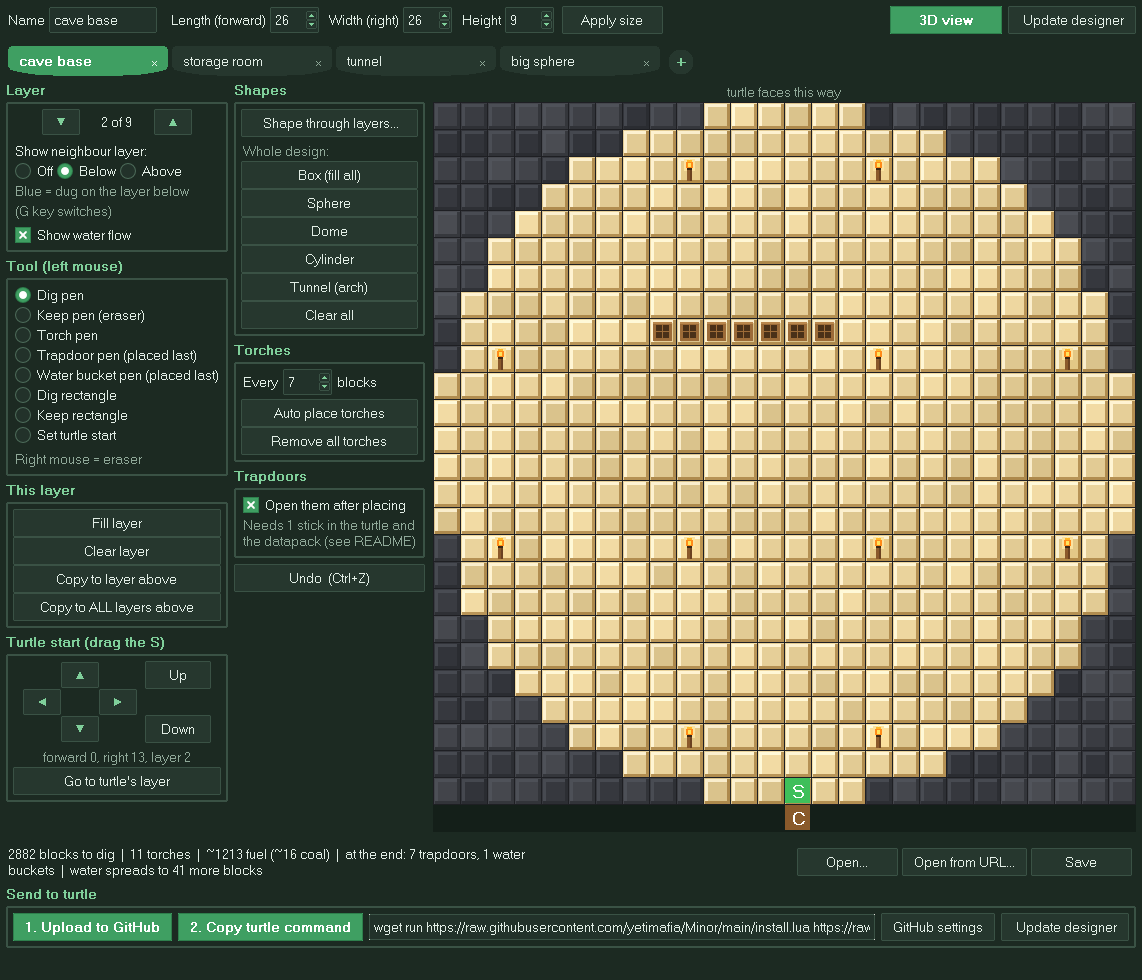
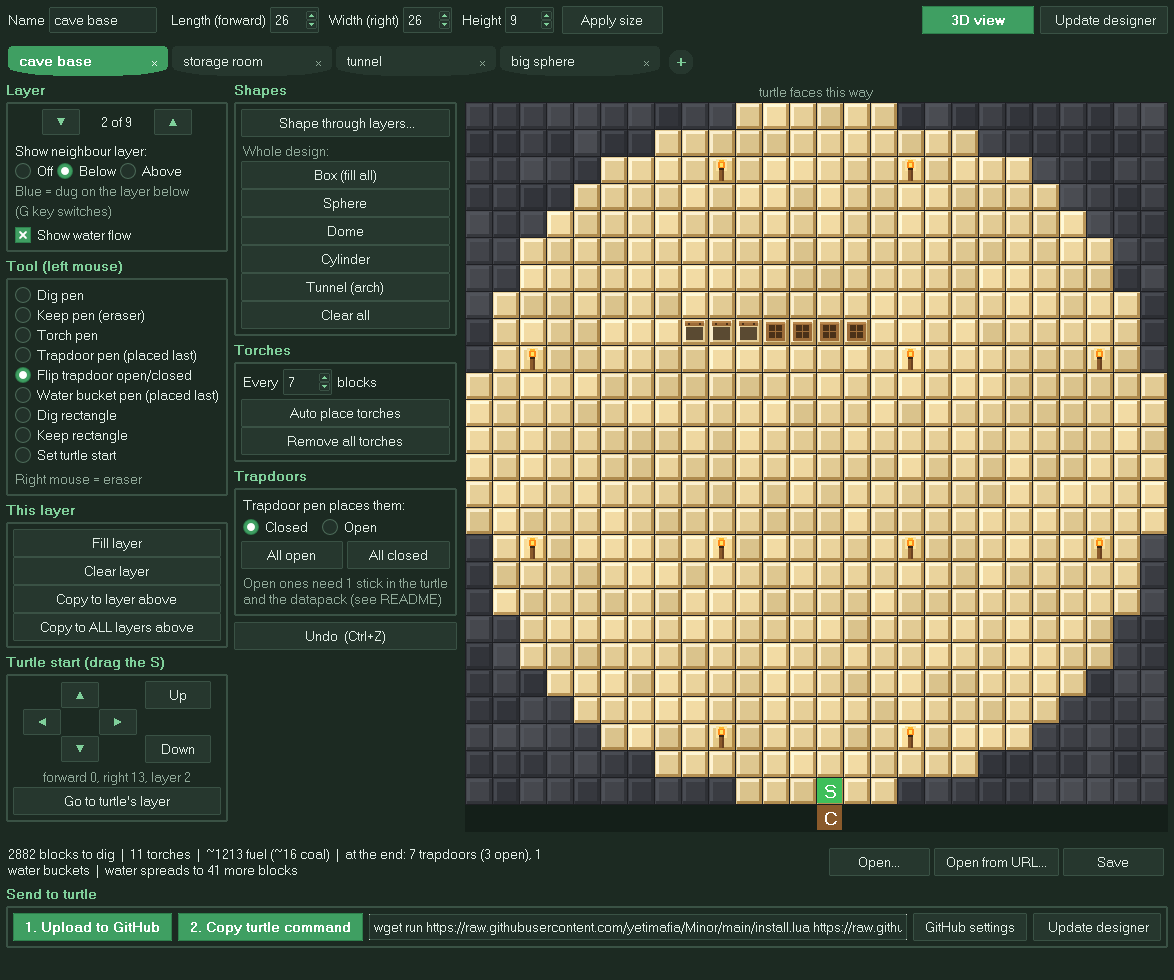
Mark each trapdoor open or closed: pen mode, flip tool, all open/closed
Turtle only opens trapdoors marked open (new 'O' cell); older files with
'trapdoors open' still open every trapdoor. 3D view shows open ones upright.

Claude-Session: https://claude.ai/code/session_01DRTnBE8omMqj1oexhSytKu

diff --git a/designer.py b/designer.py
@@ -36,7 +36,8 @@ from collections import deque
 from tkinter import filedialog, messagebox, ttk
 
 MAX = 64
-KEEP, DIG, TORCH, WATER, TRAP = 0, 1, 2, 3, 4  # WATER/TRAP: dug, then placed at the end
+KEEP, DIG, TORCH, WATER, TRAP, TRAP_OPEN = 0, 1, 2, 3, 4, 5  # water/trapdoors: dug, then placed at the end
+TRAPS = (TRAP, TRAP_OPEN)
 HERE = os.path.dirname(os.path.abspath(__file__))
 DESIGN_DIR = os.path.join(HERE, "designs")
 SETTINGS_FILE = os.path.join(HERE, "minor_settings.json")
@@ -269,6 +270,7 @@ STYLE = {
     DIG:     ("#e6cf98", "#fff3d2", "#b38f52"),   # dug - warm sandy tile
     WATER:   ("#3f7fd6", "#7fb0f0", "#2a5aa0"),   # water bucket goes here
     TRAP:    ("#e6cf98", "#fff3d2", "#b38f52"),   # trapdoor goes here (icon drawn on top)
+    TRAP_OPEN: ("#e6cf98", "#fff3d2", "#b38f52"),  # trapdoor, then opened
     TORCH:   ("#efd492", "#fff6d8", "#b8904c"),
     KEEP:    ("#3e4046", "#4b4e55", "#303237"),   # left alone - dark stone
     "below": ("#3c5779", "#4d6a90", "#2e4460"),   # dug on the layer below (blue)
@@ -301,7 +303,6 @@ class Design:
         self.L, self.W, self.H = length, width, height
         self.grid = [[[KEEP] * width for _ in range(length)] for _ in range(height)]
         self.start = (0, 0, 0)  # x (forward), y (up), z (right)
-        self.open_traps = True  # turtle clicks trapdoors open after placing them
 
     def resize(self, length, width, height):
         old = self.grid
@@ -333,7 +334,7 @@ class Design:
                 return False
             if (x, y, z) == (sx, sy, sz) or (x, y, z) == (sx - 1, sy, sz):
                 return False  # turtle parks here / chest
-            return grid[y][x][z] not in (KEEP, TRAP)
+            return grid[y][x][z] not in (KEEP, TRAP, TRAP_OPEN)
 
         def hole_below(x, y, z):
             return open_(x, y - 1, z)
@@ -405,9 +406,12 @@ class Design:
                 for v in row:
                     if v == WATER:
                         water += 1
-                    elif v == TRAP:
+                    elif v in TRAPS:
                         traps += 1
         return water, traps
+
+    def count_open_traps(self):
+        return sum(1 for layer in self.grid for row in layer for v in row if v == TRAP_OPEN)
 
     def count(self):
         dig = torches = 0
@@ -443,9 +447,7 @@ class Design:
         out = ["minor-design 1",
                f"size {self.L} {self.W} {self.H}",
                "start {} {} {}".format(*self.start)]
-        if self.open_traps:
-            out.append("trapdoors open")
-        chars = {KEEP: ".", DIG: "#", TORCH: "T", WATER: "W", TRAP: "D"}
+        chars = {KEEP: ".", DIG: "#", TORCH: "T", WATER: "W", TRAP: "D", TRAP_OPEN: "O"}
         for y in range(self.H):
             out.append(f"layer {y}")
             for x in range(self.L):
@@ -464,8 +466,9 @@ class Design:
     def from_text(cls, text):
         import re
         d = None
+        all_open = False
         y, x = -1, 0
-        values = {".": KEEP, "#": DIG, "T": TORCH, "W": WATER, "D": TRAP}
+        values = {".": KEEP, "#": DIG, "T": TORCH, "W": WATER, "D": TRAP, "O": TRAP_OPEN}
         for line in text.splitlines():
             line = line.strip()
             if line.startswith("size "):
@@ -474,14 +477,13 @@ class Design:
             elif line.startswith("start ") and d:
                 sx, sy, sz = map(int, line.split()[1:4])
                 d.start = (sx, sy, sz)
-                d.open_traps = False  # only on if the file says so
             elif line.startswith("trapdoors open") and d:
-                d.open_traps = True
+                all_open = True  # older files: one setting for every trapdoor
             elif line.startswith("layer ") and d:
                 y, x = int(line.split()[1]), 0
             elif d and y >= 0 and x < d.L and line:
                 z = 0
-                for count, ch in re.findall(r"(\d+)([.#TWD])", line):
+                for count, ch in re.findall(r"(\d+)([.#TWDO])", line):
                     for _ in range(int(count)):
                         if z < d.W:
                             d.grid[y][x][z] = values[ch]
@@ -489,6 +491,12 @@ class Design:
                 x += 1
         if d is None:
             raise ValueError("Not a minor design file")
+        if all_open:
+            for layer in d.grid:
+                for row in layer:
+                    for z, v in enumerate(row):
+                        if v == TRAP:
+                            row[z] = TRAP_OPEN
         return d
 
 
@@ -591,7 +599,7 @@ class App:
         tools = ttk.LabelFrame(side_a, text="Tool (left mouse)", padding=6)
         tools.pack(fill="x", pady=(0, 6))
         for value, text in (("dig", "Dig pen"), ("keep", "Keep pen (eraser)"),
-                            ("torch", "Torch pen"), ("trap", "Trapdoor pen (placed last)"),
+                            ("torch", "Torch pen"), ("trap", "Trapdoor pen (placed last)"), ("flip", "Flip trapdoor open/closed"),
                             ("water", "Water bucket pen (placed last)"), ("rect", "Dig rectangle"),
                             ("rectkeep", "Keep rectangle"), ("start", "Set turtle start")):
             ttk.Radiobutton(tools, text=text, value=value, variable=self.tool).pack(anchor="w")
@@ -625,11 +633,22 @@ class App:
 
         trp = ttk.LabelFrame(side_b, text="Trapdoors", padding=6)
         trp.pack(fill="x", pady=(0, 6))
-        self.open_traps = tk.BooleanVar(value=True)
-        ttk.Checkbutton(trp, text="Open them after placing", variable=self.open_traps,
-                        command=self.set_open_traps).pack(anchor="w")
-        ttk.Label(trp, text="Needs 1 stick in the turtle and\nthe datapack (see README)",
-                  foreground=THEME["muted"], justify="left").pack(anchor="w")
+        ttk.Label(trp, text="Trapdoor pen places them:").pack(anchor="w")
+        self.trap_mode = tk.StringVar(value="closed")
+        mr = ttk.Frame(trp)
+        mr.pack(anchor="w", pady=(2, 4))
+        ttk.Radiobutton(mr, text="Closed", value="closed", variable=self.trap_mode,
+                        command=self.pick_trap_pen).pack(side="left")
+        ttk.Radiobutton(mr, text="Open", value="open", variable=self.trap_mode,
+                        command=self.pick_trap_pen).pack(side="left", padx=(10, 0))
+        br = ttk.Frame(trp)
+        br.pack(fill="x")
+        ttk.Button(br, text="All open", command=lambda: self.set_all_traps(TRAP_OPEN)).pack(
+            side="left", fill="x", expand=True)
+        ttk.Button(br, text="All closed", command=lambda: self.set_all_traps(TRAP)).pack(
+            side="left", fill="x", expand=True, padx=(4, 0))
+        ttk.Label(trp, text="Open ones need 1 stick in the turtle\nand the datapack (see README)",
+                  foreground=THEME["muted"], justify="left").pack(anchor="w", pady=(4, 0))
 
         ttk.Button(side_b, text="Undo  (Ctrl+Z)", command=self.undo).pack(fill="x", pady=(0, 6))
 
@@ -750,6 +769,8 @@ class App:
             self.torch_items[(x, z)] = self.draw_water(x, z)
         elif v == TRAP:
             self.torch_items[(x, z)] = self.draw_trapdoor(x, z)
+        elif v == TRAP_OPEN:
+            self.torch_items[(x, z)] = self.draw_trapdoor_open(x, z)
 
     def draw_water(self, x, z):
         """Water: little light-blue waves on a blue tile."""
@@ -764,6 +785,24 @@ class App:
             items.append(self.canvas.create_line(*pts, fill="#cfe4ff", width=max(1, c // 12),
                                                  smooth=True, tags="torch"))
         return items
+
+    def draw_trapdoor_open(self, x, z):
+        """Open trapdoor: the hatch swung up, seen edge-on along the top of the
+        square, with the hole showing underneath."""
+        c = self.cell
+        px, py = z * c, (self.d.L - 1 - x) * c
+        u = c / 8.0
+
+        def box(x0, y0, x1, y1, color):
+            return self.canvas.create_rectangle(px + x0 * u, py + y0 * u, px + x1 * u, py + y1 * u,
+                                                fill=color, outline="", tags="torch")
+        return [
+            box(1.6, 2.6, 6.4, 6.6, "#5a4a32"),   # the open hole
+            box(1.2, 1.0, 6.8, 2.4, "#9c6b38"),   # hatch standing up
+            box(1.2, 1.0, 6.8, 1.4, "#b9864c"),   # its top edge
+            box(2.0, 1.5, 2.8, 2.0, "#4a3018"),   # little windows seen edge-on
+            box(5.2, 1.5, 6.0, 2.0, "#4a3018"),
+        ]
 
     def draw_trapdoor(self, x, z):
         """Trapdoor: a wooden hatch with a frame and four little windows."""
@@ -845,7 +884,9 @@ class App:
         water, traps = self.d.count_items()
         text = f"{dig} blocks to dig  |  {torches} torches  |  ~{fuel} fuel (~{fuel // 80 + 1} coal)"
         if water or traps:
-            text += f"  |  at the end: {traps} trapdoors, {water} water buckets"
+            opened = self.d.count_open_traps()
+            tp = f"{traps} trapdoors ({opened} open)" if opened else f"{traps} trapdoors"
+            text += f"  |  at the end: {tp}, {water} water buckets"
         if water and self.show_flow.get():
             d = self.d
             text += f"  |  water spreads to {len(self.flow)} more blocks"
@@ -883,7 +924,8 @@ class App:
     def pen_value(self, erase):
         if erase:
             return KEEP
-        return {"dig": DIG, "keep": KEEP, "torch": TORCH, "water": WATER, "trap": TRAP}.get(self.tool.get())
+        trap = TRAP_OPEN if self.trap_mode.get() == "open" else TRAP
+        return {"dig": DIG, "keep": KEEP, "torch": TORCH, "water": WATER, "trap": trap}.get(self.tool.get())
 
     def on_press(self, e, erase):
         p = self.cell_at(e)
@@ -900,7 +942,19 @@ class App:
         if tool in ("rect", "rectkeep") and not erase:
             self.drag_start = p
             return
+        if tool == "flip" and not erase:
+            self.flip_at(p)
+            return
         self.paint(*p, self.pen_value(erase))
+
+    def flip_at(self, p):
+        """Switch a trapdoor between open and closed (once per square per drag)."""
+        if getattr(self, "last_flip", None) == (p, self.layer):
+            return
+        self.last_flip = (p, self.layer)
+        v = self.d.grid[self.layer][p[0]][p[1]]
+        if v in TRAPS:
+            self.paint(p[0], p[1], TRAP if v == TRAP_OPEN else TRAP_OPEN)
 
     def on_drag(self, e, erase):
         p = self.cell_at(e)
@@ -922,9 +976,13 @@ class App:
             return
         if tool == "start" and not erase:
             return
+        if tool == "flip" and not erase:
+            self.flip_at(p)
+            return
         self.paint(*p, self.pen_value(erase))
 
     def on_release(self, e, erase):
+        self.last_flip = None
         if getattr(self, "dragging_start", False):
             self.dragging_start = False
             self.redraw()
@@ -1356,9 +1414,21 @@ class App:
                         changed += 1
         return changed
 
-    def set_open_traps(self):
-        self.d.open_traps = bool(self.open_traps.get())
-        self.dirty = True
+    def pick_trap_pen(self):
+        self.tool.set("trap")  # choosing open/closed switches to the trapdoor pen
+
+    def set_all_traps(self, value):
+        self.snapshot()
+        n = 0
+        for layer in self.d.grid:
+            for row in layer:
+                for z, v in enumerate(row):
+                    if v in TRAPS and v != value:
+                        row[z] = value
+                        n += 1
+        self.redraw()
+        word = "open" if value == TRAP_OPEN else "closed"
+        self.status.config(text=f"{n} trapdoors set to {word}.", foreground=THEME["ok"])
 
     # ---- tabs (auto-saved) --------------------------------------------
     def tab_path(self, i):
@@ -1622,9 +1692,8 @@ class App:
         self.root.destroy()
 
     def sync_from_design(self):
-        """Update checkboxes after a different design was loaded."""
-        if hasattr(self, "open_traps"):
-            self.open_traps.set(self.d.open_traps)
+        """Update controls after a different design was loaded."""
+        pass
 
     # ---- 3D view --------------------------------------------------------
     def view_3d(self):
@@ -1984,7 +2053,7 @@ const DESIGN = __DESIGN__;
 const FLOW = __FLOW__;   // [x, y, z, level 1-7, falling]
 
 // ---------------------------------------------------------------- parse
-const KEEP = 0, DIG = 1, TORCH = 2, WATER = 3, TRAP = 4;
+const KEEP = 0, DIG = 1, TORCH = 2, WATER = 3, TRAP = 4, TRAP_OPEN = 5;
 let L = 1, W = 1, H = 1, start = [0, 0, 0], grid;
 (function parse() {
   let y = -1, x = 0;
@@ -1993,20 +2062,23 @@ let L = 1, W = 1, H = 1, start = [0, 0, 0], grid;
     if (line.startsWith('size ')) {
       [L, W, H] = line.split(/\s+/).slice(1, 4).map(Number);
       grid = new Uint8Array(L * W * H);
+    } else if (line.startsWith('trapdoors open')) {
+      window.__allOpen = true;
     } else if (line.startsWith('start ')) {
       start = line.split(/\s+/).slice(1, 4).map(Number);
     } else if (line.startsWith('layer ')) {
       y = Number(line.split(/\s+/)[1]); x = 0;
     } else if (grid && y >= 0 && x < L && line && !line.startsWith('minor')) {
       let z = 0;
-      for (const m of line.matchAll(/(\d+)([.#TWD])/g)) {
-        const v = { '#': DIG, 'T': TORCH, 'W': WATER, 'D': TRAP }[m[2]] ?? KEEP;
+      for (const m of line.matchAll(/(\d+)([.#TWDO])/g)) {
+        const v = { '#': DIG, 'T': TORCH, 'W': WATER, 'D': TRAP, 'O': TRAP_OPEN }[m[2]] ?? KEEP;
         for (let n = 0; n < +m[1] && z < W; n++, z++) grid[x + L * (z + W * y)] = v;
       }
       x++;
     }
   }
 })();
+if (window.__allOpen) for (let i = 0; i < grid.length; i++) if (grid[i] === TRAP) grid[i] = TRAP_OPEN;
 const [SX, SY, SZ] = start;
 const at = (x, y, z) => (x < 0 || y < 0 || z < 0 || x >= L || y >= H || z >= W) ? -1 : grid[x + L * (z + W * y)];
 const isChest = (x, y, z) => x === SX - 1 && y === SY && z === SZ;
@@ -2064,6 +2136,7 @@ scene.add(torchGroup);
 const waterGeo = new THREE.BoxGeometry(0.98, 0.9, 0.98);
 const waterMat = new THREE.MeshLambertMaterial({ color: 0x3f7fd6, transparent: true, opacity: 0.55, depthWrite: false });
 const trapGeo = new THREE.BoxGeometry(0.96, 0.19, 0.96);
+const trapOpenGeo = new THREE.BoxGeometry(0.96, 0.96, 0.19);   // swung up against the back edge
 const trapMat = new THREE.MeshLambertMaterial({ color: 0x9c6b38 });
 let itemGroup = new THREE.Group();
 scene.add(itemGroup);
@@ -2194,23 +2267,25 @@ function rebuild() {
 
   scene.remove(itemGroup);
   itemGroup = new THREE.Group();
-  const water = [], traps = [];
+  const water = [], traps = [], trapsOpen = [];
   for (let y = 0; y < H; y++) for (let x = 0; x < L; x++) for (let z = 0; z < W; z++) {
     if (!visibleCut(x, y)) continue;
     const v = at(x, y, z);
     if (v === WATER) water.push([x, y, z]); else if (v === TRAP) traps.push([x, y, z]);
+    else if (v === TRAP_OPEN) trapsOpen.push([x, y, z]);
   }
-  const addInst = (list, geo, mat, dy) => {
+  const addInst = (list, geo, mat, dy, dz = 0) => {
     if (!list.length) return;
     const m = new THREE.InstancedMesh(geo, mat, list.length);
     list.forEach(([x, y, z], i) => {
       toWorld(x, y, z, tmpV);
-      tmpM.makeTranslation(tmpV.x, tmpV.y + dy, tmpV.z);
+      tmpM.makeTranslation(tmpV.x, tmpV.y + dy, tmpV.z + dz);
       m.setMatrixAt(i, tmpM);
     });
     itemGroup.add(m);
   };
   addInst(traps, trapGeo, trapMat, -0.5 + 0.095);
+  addInst(trapsOpen, trapOpenGeo, trapMat, 0, 0.5 - 0.095);
   addInst(water, waterGeo, waterMat, -0.05);
   itemGroup.visible = document.getElementById('items').checked;
   scene.add(itemGroup);
@@ -2251,7 +2326,7 @@ for (let i = 0; i < grid.length; i++) {
   if (grid[i]) digCount++;
   if (grid[i] === TORCH) torchTotal++;
   if (grid[i] === WATER) waterTotal++;
-  if (grid[i] === TRAP) trapTotal++;
+  if (grid[i] === TRAP || grid[i] === TRAP_OPEN) trapTotal++;
 }
 document.getElementById('size').textContent = `${L} long × ${W} wide × ${H} tall`;
 

diff --git a/README.md b/README.md
@@ -53,7 +53,7 @@ Put the turtle where the design's green **S** is, facing the way the grid points
 | 🕯 **Torches** | in the turtle | Placed first, so mobs can't spawn while it works |
 | 🚪 **Trapdoors** | in the turtle | Only if your design has them. Placed at the end |
 | 🪣 **Water buckets** | in the turtle | One per water spot. Placed last |
-| 🥢 **1 stick** | in the turtle | Only if you want trapdoors opened (needs the [datapack](#-opening-trapdoors)) |
+| 🥢 **1 stick** | in the turtle | Only if any trapdoors are marked open (needs the [datapack](#-opening-trapdoors)) |
 
 The turtle never burns or unloads torches, trapdoors, water buckets or sticks.
 
@@ -63,7 +63,7 @@ The turtle never burns or unloads torches, trapdoors, water buckets or sticks.
 
 1. **Lights the room.** It digs a path to every torch spot and places each torch from directly above, so torches land on the floor and not the walls.
 2. **Digs bottom up.** It clears layers 1–3 completely, then 4–6, and so on. It stands in the middle layer of each band, so every move clears three blocks.
-3. **Places trapdoors.** It opens them too, if you asked it to.
+3. **Places trapdoors**, and opens the ones you marked open.
 4. **Places water last**, so water can't flow into spots that still need a trapdoor.
 5. **Comes home**, empties into the chest, and tells you what it did.
 
@@ -83,12 +83,14 @@ You look down on **one layer at a time**. The top of the grid is the way the tur
 | ⬛ dark stone | left alone |
 | 🕯 torch | dug, then a torch is placed on the floor |
 | 🟫 hatch | dug, then a trapdoor is placed (at the end) |
+| 🟫 hatch, swung up | same, then the turtle **opens** it |
 | 🟦 waves | dug, then a water bucket is placed (last) |
 | 🟩 **S** / 🟫 **C** | where the turtle starts / where the chest goes |
 
 ### Drawing tools
 
 - **Pens:** dig, keep (eraser), torch, trapdoor and water. **Right-click always erases.**
+- **Trapdoors, open or closed:** in the *Trapdoors* box, choose whether the trapdoor pen places them **Closed** or **Open**. The **Flip trapdoor** tool switches any trapdoor between the two with a click, and **All open** / **All closed** change every trapdoor at once.
 - **Rectangles:** drag to fill or clear a box.
 - **Turtle start:** drag the **S**, or use the arrow buttons. *Up*/*Down* move it between layers.
 - **This layer:** fill, clear, *Copy to layer above*, or *Copy to ALL layers above*, which turns a floor plan into a room.
@@ -186,7 +188,7 @@ Out of the box, CC: Tweaked doesn't let turtles click trapdoors. To have them op
    - Server: `<server>/world/datapacks/`
 3. Run `/reload` (or reopen the world), and give the turtle **1 stick**.
 
-In the designer, **Trapdoors → Open them after placing** turns this on or off for each design. Without the datapack, the turtle notices and leaves them closed.
+In the designer, mark each trapdoor **open** or **closed** (see *Drawing tools*). Only the ones marked open get opened. Without the datapack, the turtle notices and leaves them closed.
 
 ---
 
@@ -260,10 +262,9 @@ Check the designer's tabs first, since they save automatically. Every upload is 
 minor-design 1
 size <length> <width> <height>
 start <x> <y> <z>
-trapdoors open          (optional)
 layer 0
 <one line per row, run-length encoded, e.g. 3.10#1T>
 ```
 
-`.` keep · `#` dig · `T` torch · `D` trapdoor · `W` water. `x` is forward, `z` is right, and `y` is up.
+`.` keep · `#` dig · `T` torch · `D` trapdoor · `O` open trapdoor · `W` water. `x` is forward, `z` is right, and `y` is up.
 </details>
